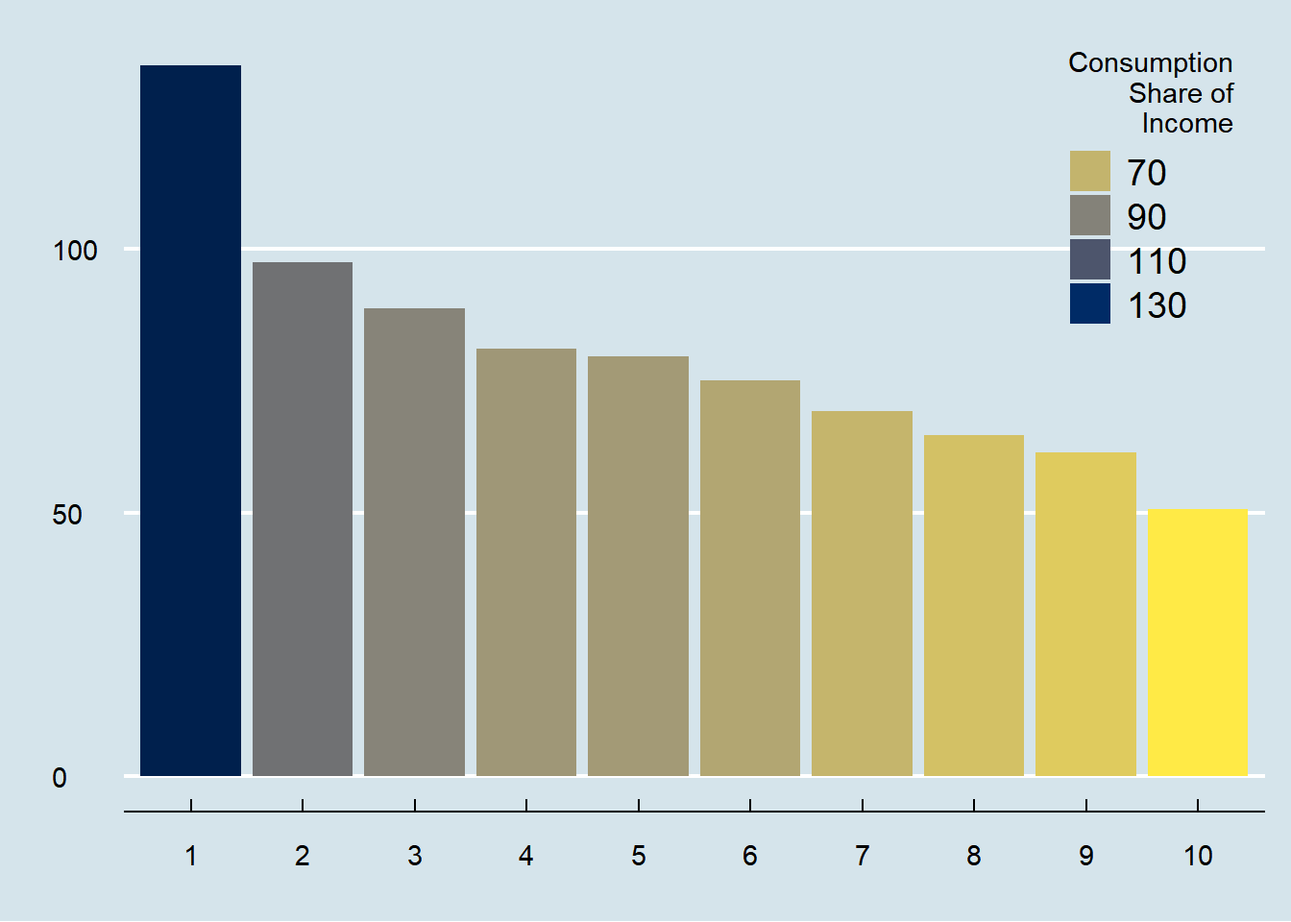
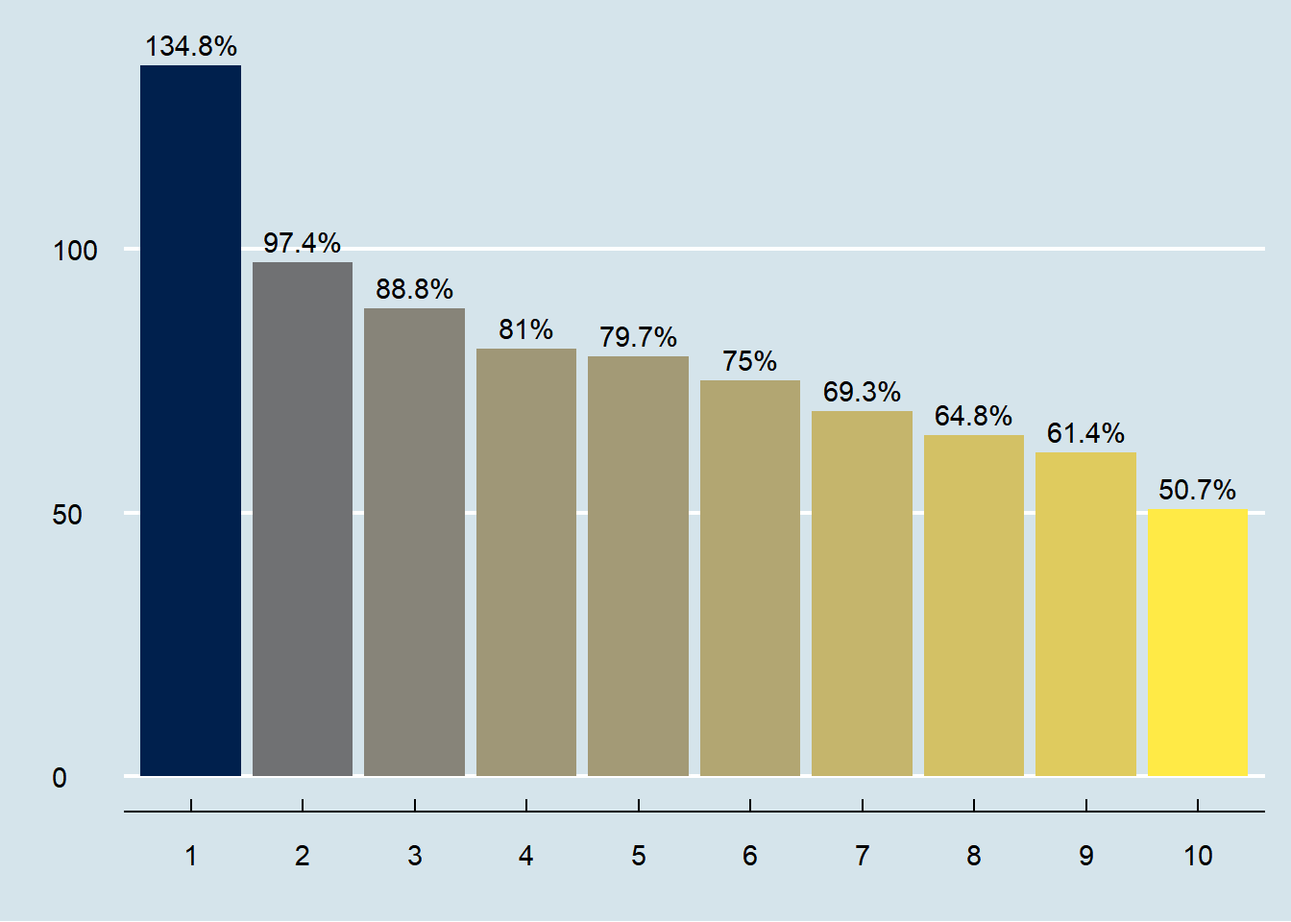
Update

diff --git a/docs/02_data.html b/docs/02_data.html
@@ -244,7 +244,7 @@ div.csl-indent {
   <li><a href="#data-structure" id="toc-data-structure" class="nav-link" data-scroll-target="#data-structure">Data Structure</a></li>
   <li><a href="#pequiv" id="toc-pequiv" class="nav-link" data-scroll-target="#pequiv">PEQUIV</a></li>
   <li><a href="#hgen" id="toc-hgen" class="nav-link" data-scroll-target="#hgen">HGEN</a></li>
-  <li><a href="#individual-panel" id="toc-individual-panel" class="nav-link" data-scroll-target="#individual-panel">individual panel</a></li>
+  <li><a href="#individual-panel" id="toc-individual-panel" class="nav-link" data-scroll-target="#individual-panel">Individual panel</a></li>
   <li><a href="#hconsum" id="toc-hconsum" class="nav-link" data-scroll-target="#hconsum">HCONSUM</a></li>
   <li><a href="#estimating-the-distribution-of-power-costs-by-income-decile" id="toc-estimating-the-distribution-of-power-costs-by-income-decile" class="nav-link" data-scroll-target="#estimating-the-distribution-of-power-costs-by-income-decile">Estimating the distribution of power costs by income decile</a></li>
   <li><a href="#mapping-the-income-deciles-of-the-soep-to-the-bundesbank-categories" id="toc-mapping-the-income-deciles-of-the-soep-to-the-bundesbank-categories" class="nav-link" data-scroll-target="#mapping-the-income-deciles-of-the-soep-to-the-bundesbank-categories">Mapping the income deciles of the SOEP to the “Bundesbank” categories</a></li>
@@ -1009,7 +1009,7 @@ Labels:
 </ul>
 </section>
 <section id="individual-panel" class="level3">
-<h3 class="anchored" data-anchor-id="individual-panel">individual panel</h3>
+<h3 class="anchored" data-anchor-id="individual-panel">Individual panel</h3>
 <div class="cell">
 
 </div>
@@ -1614,7 +1614,7 @@ f(x) = ax^{ap-1}\Big[b^{ab} B(p,q)\Big(1 + (\frac{x}{b})^a\Big)^{p+q}\Big]^{-1}
 <div class="cell">
 
 </div>
-<p>In <a href="#tbl-ConsA">Table&nbsp;15</a>, we show a sample of the consumption data for daily expenditures. <a href="#tbl-ConsB">Table&nbsp;16</a> contains a similar exercise for housing costs, <a href="#tbl-ConsC">Table&nbsp;17</a> for financial burdens, and <a href="#tbl-ConsD">Table&nbsp;18</a> for other income uses. All values are in thousand of Euros per year and come from averaging the five different imputations of the SOEP for each consumption category.</p>
+<p>In <a href="#tbl-ConsA">Table&nbsp;15</a>, we show a sample of the consumption data for daily expenditures. <a href="#tbl-ConsB">Table&nbsp;16</a> contains a similar exercise for housing costs, <a href="#tbl-ConsC">Table&nbsp;17</a> for financial burdens, and <a href="#tbl-ConsD">Table&nbsp;18</a> for other income uses. All values are in thousand of Euros per year and come from averaging the five different imputations of the SOEP consumption module across categories.</p>
 <div class="panel-tabset">
 <ul class="nav nav-tabs" role="tablist"><li class="nav-item" role="presentation"><a class="nav-link active" id="tabset-4-1-tab" data-bs-toggle="tab" data-bs-target="#tabset-4-1" role="tab" aria-controls="tabset-4-1" aria-selected="true">Daily Expenditures</a></li><li class="nav-item" role="presentation"><a class="nav-link" id="tabset-4-2-tab" data-bs-toggle="tab" data-bs-target="#tabset-4-2" role="tab" aria-controls="tabset-4-2" aria-selected="false">Housing expenditures</a></li><li class="nav-item" role="presentation"><a class="nav-link" id="tabset-4-3-tab" data-bs-toggle="tab" data-bs-target="#tabset-4-3" role="tab" aria-controls="tabset-4-3" aria-selected="false">Financial expenditures</a></li><li class="nav-item" role="presentation"><a class="nav-link" id="tabset-4-4-tab" data-bs-toggle="tab" data-bs-target="#tabset-4-4" role="tab" aria-controls="tabset-4-4" aria-selected="false">Other expenditures</a></li></ul>
 <div class="tab-content">
@@ -1953,9 +1953,9 @@ f(x) = ax^{ap-1}\Big[b^{ab} B(p,q)\Big(1 + (\frac{x}{b})^a\Big)^{p+q}\Big]^{-1}
 </div>
 </div>
 </div>
-<p>In <a href="#fig-ShareConsumption">Figure&nbsp;2</a> we look at the difference in consumption values and composition across the SOEP income deciles. For this, we aggregate all consumption items into eight categories; Daily expenditures, health, financial, transport, heating, power, housing, and other. First, there are clear differences in the amount of money used for consumption across income groups. For instance, in the highest and lowest deciles of the income distribution households spend 14,900 and 4,460 Euros per year, respectively.</p>
+<p>In <a href="#fig-ShareConsumption">Figure&nbsp;2</a>, we look at the difference in consumption values and composition across the SOEP income deciles. For this, we aggregate all consumption items into eight categories; Daily expenditures, health, financial, transport, heating, power, housing, and others. There are apparent differences in the amount of money used for consumption across income groups. For instance, in the highest and lowest deciles of the income distribution, households spend 14,900 and 4,460 Euros per year, respectively. <a href="#fig-ShareConsumption">Figure&nbsp;2</a> portrays a clearer picture of the composition of these expenditures across income groups. While the share of financial and health costs grows with income, heating and power expenditures decrease. <strong>?@fig-HeatCon</strong> clearly shows these trends with a heat map of consumption category by income decile. The expenditure share of housing, daily expenses, and health remains relatively stable; financial, transport and health costs increase with income; and heating-power expenses decrease. In <a href="#fig-IncToCon">Figure&nbsp;4</a>, we plot the ratio of average income to consumption by income decile. As expected, the consumption income ratio drops as we become more well-off. In the lowest income decile, families spend, on average, 34% more than their average income, meaning that they either live from debt or receive additional and unreported income from other sources. Once we move to the second income decile, the ratio reaches parity and implies that persons in this decile earn as much as they spend. Finally, in <a href="#fig-IncToConHeat">Figure&nbsp;5</a>, we plot the heat map of consumption income ratios across different categories.</p>
 <div class="panel-tabset">
-<ul class="nav nav-tabs" role="tablist"><li class="nav-item" role="presentation"><a class="nav-link active" id="tabset-5-1-tab" data-bs-toggle="tab" data-bs-target="#tabset-5-1" role="tab" aria-controls="tabset-5-1" aria-selected="true">Yearly Consumption</a></li><li class="nav-item" role="presentation"><a class="nav-link" id="tabset-5-2-tab" data-bs-toggle="tab" data-bs-target="#tabset-5-2" role="tab" aria-controls="tabset-5-2" aria-selected="false">Consumption Share</a></li><li class="nav-item" role="presentation"><a class="nav-link" id="tabset-5-3-tab" data-bs-toggle="tab" data-bs-target="#tabset-5-3" role="tab" aria-controls="tabset-5-3" aria-selected="false">Consumption Share of income</a></li></ul>
+<ul class="nav nav-tabs" role="tablist"><li class="nav-item" role="presentation"><a class="nav-link active" id="tabset-5-1-tab" data-bs-toggle="tab" data-bs-target="#tabset-5-1" role="tab" aria-controls="tabset-5-1" aria-selected="true">Consumption</a></li><li class="nav-item" role="presentation"><a class="nav-link" id="tabset-5-2-tab" data-bs-toggle="tab" data-bs-target="#tabset-5-2" role="tab" aria-controls="tabset-5-2" aria-selected="false">Con. Share</a></li><li class="nav-item" role="presentation"><a class="nav-link" id="tabset-5-3-tab" data-bs-toggle="tab" data-bs-target="#tabset-5-3" role="tab" aria-controls="tabset-5-3" aria-selected="false">Con. Matrix</a></li><li class="nav-item" role="presentation"><a class="nav-link" id="tabset-5-4-tab" data-bs-toggle="tab" data-bs-target="#tabset-5-4" role="tab" aria-controls="tabset-5-4" aria-selected="false">Con/Income</a></li><li class="nav-item" role="presentation"><a class="nav-link" id="tabset-5-5-tab" data-bs-toggle="tab" data-bs-target="#tabset-5-5" role="tab" aria-controls="tabset-5-5" aria-selected="false">Con/Income matrix</a></li></ul>
 <div class="tab-content">
 <div id="tabset-5-1" class="tab-pane active" role="tabpanel" aria-labelledby="tabset-5-1-tab">
 <div class="cell fig-cap-location-top">
@@ -2028,24 +2028,89 @@ f(x) = ax^{ap-1}\Big[b^{ab} B(p,q)\Big(1 + (\frac{x}{b})^a\Big)^{p+q}\Big]^{-1}
 <span id="cb23-2"><a href="#cb23-2" aria-hidden="true" tabindex="-1"></a>data <span class="ot">=</span> <span class="fu">mutate</span>(data, <span class="at">decile =</span> <span class="fu">ntile</span>(income, <span class="dv">10</span>)) <span class="sc">|&gt;</span> </span>
 <span id="cb23-3"><a href="#cb23-3" aria-hidden="true" tabindex="-1"></a>  <span class="fu">mutate</span>(<span class="at">decile =</span> <span class="fu">as_factor</span>(decile))</span>
 <span id="cb23-4"><a href="#cb23-4" aria-hidden="true" tabindex="-1"></a><span class="co"># Create the data for the plot</span></span>
-<span id="cb23-5"><a href="#cb23-5" aria-hidden="true" tabindex="-1"></a>plot <span class="ot">=</span> <span class="fu">select</span>(data, total, income, decile) <span class="sc">|&gt;</span> </span>
-<span id="cb23-6"><a href="#cb23-6" aria-hidden="true" tabindex="-1"></a>  <span class="fu">group_by</span>(decile) <span class="sc">|&gt;</span> </span>
-<span id="cb23-7"><a href="#cb23-7" aria-hidden="true" tabindex="-1"></a>  <span class="fu">summarise</span>(<span class="at">consumption =</span> <span class="fu">mean</span>(total), <span class="at">income =</span> <span class="fu">mean</span>(income)) <span class="sc">|&gt;</span> </span>
-<span id="cb23-8"><a href="#cb23-8" aria-hidden="true" tabindex="-1"></a>  <span class="fu">mutate</span>(<span class="at">share =</span> (consumption<span class="sc">/</span>income)<span class="sc">*</span><span class="dv">100</span>)</span>
-<span id="cb23-9"><a href="#cb23-9" aria-hidden="true" tabindex="-1"></a><span class="co"># Plot total expenditures by concept</span></span>
-<span id="cb23-10"><a href="#cb23-10" aria-hidden="true" tabindex="-1"></a><span class="fu">ggplot</span>(plot) <span class="sc">+</span></span>
-<span id="cb23-11"><a href="#cb23-11" aria-hidden="true" tabindex="-1"></a>  <span class="fu">geom_bar</span>(<span class="fu">aes</span>(<span class="at">x =</span> decile, <span class="at">y =</span> share, <span class="at">fill =</span> share), <span class="at">stat =</span> <span class="st">"identity"</span>) <span class="sc">+</span></span>
-<span id="cb23-12"><a href="#cb23-12" aria-hidden="true" tabindex="-1"></a>  <span class="fu">scale_fill_viridis</span>(<span class="at">discrete =</span> F, <span class="at">option =</span> <span class="st">"E"</span>, <span class="at">direction =</span> <span class="sc">-</span><span class="dv">1</span>) <span class="sc">+</span></span>
-<span id="cb23-13"><a href="#cb23-13" aria-hidden="true" tabindex="-1"></a>  <span class="fu">theme_economist</span>() <span class="sc">%+replace%</span> </span>
-<span id="cb23-14"><a href="#cb23-14" aria-hidden="true" tabindex="-1"></a>  <span class="fu">theme</span>(<span class="at">legend.position =</span> <span class="fu">c</span>(<span class="fl">0.9</span>, <span class="fl">0.8</span>), <span class="at">legend.title =</span> <span class="fu">element_text</span>(<span class="at">hjust =</span> <span class="dv">1</span>)) <span class="sc">+</span></span>
-<span id="cb23-15"><a href="#cb23-15" aria-hidden="true" tabindex="-1"></a>  <span class="fu">labs</span>(<span class="at">x =</span> <span class="st">""</span>, <span class="at">y =</span> <span class="st">""</span>) <span class="sc">+</span> </span>
-<span id="cb23-16"><a href="#cb23-16" aria-hidden="true" tabindex="-1"></a>  <span class="fu">guides</span>(<span class="at">fill =</span> <span class="fu">guide_legend</span>(<span class="fu">str_wrap</span>(<span class="st">"Consumption Share of Income"</span>, <span class="at">width =</span> <span class="dv">10</span>)))</span></code><button title="Copy to Clipboard" class="code-copy-button"><i class="bi"></i></button></pre></div>
+<span id="cb23-5"><a href="#cb23-5" aria-hidden="true" tabindex="-1"></a>plot <span class="ot">=</span> <span class="fu">select</span>(data, <span class="sc">-</span>total, <span class="sc">-</span>income, <span class="sc">-</span>owner) <span class="sc">%&gt;%</span> </span>
+<span id="cb23-6"><a href="#cb23-6" aria-hidden="true" tabindex="-1"></a>  <span class="fu">gather</span>(var, value, <span class="sc">-</span>hid, <span class="sc">-</span>decile) <span class="sc">%&gt;%</span> </span>
+<span id="cb23-7"><a href="#cb23-7" aria-hidden="true" tabindex="-1"></a>  <span class="fu">left_join</span>(., codebook, <span class="at">by =</span> <span class="fu">c</span>(<span class="st">"var"</span> <span class="ot">=</span> <span class="st">"concept"</span>)) <span class="sc">|&gt;</span> <span class="fu">group_by</span>(decile, group) <span class="sc">|&gt;</span> </span>
+<span id="cb23-8"><a href="#cb23-8" aria-hidden="true" tabindex="-1"></a>  <span class="fu">summarise</span>(<span class="at">value =</span> <span class="fu">mean</span>(value)) <span class="sc">|&gt;</span> <span class="fu">group_by</span>(decile) <span class="sc">|&gt;</span> </span>
+<span id="cb23-9"><a href="#cb23-9" aria-hidden="true" tabindex="-1"></a>  <span class="fu">mutate</span>(<span class="at">share =</span> (value<span class="sc">/</span><span class="fu">sum</span>(value))<span class="sc">*</span><span class="dv">100</span>)  <span class="sc">|&gt;</span> </span>
+<span id="cb23-10"><a href="#cb23-10" aria-hidden="true" tabindex="-1"></a>  <span class="fu">mutate</span>(<span class="at">group =</span> <span class="fu">fct_reorder</span>(<span class="fu">factor</span>(group), share, <span class="at">.desc =</span> F))</span>
+<span id="cb23-11"><a href="#cb23-11" aria-hidden="true" tabindex="-1"></a><span class="co"># Plot total expenditures by concept</span></span>
+<span id="cb23-12"><a href="#cb23-12" aria-hidden="true" tabindex="-1"></a><span class="fu">ggplot</span>(plot) <span class="sc">+</span></span>
+<span id="cb23-13"><a href="#cb23-13" aria-hidden="true" tabindex="-1"></a>  <span class="fu">geom_tile</span>(<span class="fu">aes</span>(<span class="at">x =</span> decile, <span class="at">y =</span> group, <span class="at">fill =</span> share), <span class="at">alpha =</span> <span class="fl">0.75</span>) <span class="sc">+</span></span>
+<span id="cb23-14"><a href="#cb23-14" aria-hidden="true" tabindex="-1"></a>  <span class="fu">geom_text</span>(<span class="fu">aes</span>(<span class="at">x =</span> decile, <span class="at">y =</span> group, <span class="at">label =</span> <span class="fu">paste0</span>(<span class="fu">round</span>(share, <span class="dv">1</span>), <span class="st">"%"</span>))) <span class="sc">+</span></span>
+<span id="cb23-15"><a href="#cb23-15" aria-hidden="true" tabindex="-1"></a>  <span class="fu">scale_fill_viridis</span>(<span class="at">discrete =</span> F, <span class="at">begin =</span> <span class="dv">0</span>, <span class="at">end =</span> <span class="fl">0.6</span>, <span class="at">option =</span> <span class="st">"D"</span>) <span class="sc">+</span></span>
+<span id="cb23-16"><a href="#cb23-16" aria-hidden="true" tabindex="-1"></a>  <span class="fu">theme_economist</span>() <span class="sc">%+replace%</span> <span class="fu">theme</span>(<span class="at">legend.title =</span> <span class="fu">element_blank</span>()) <span class="sc">+</span></span>
+<span id="cb23-17"><a href="#cb23-17" aria-hidden="true" tabindex="-1"></a>  <span class="fu">labs</span>(<span class="at">x =</span> <span class="st">""</span>, <span class="at">y =</span> <span class="st">""</span>) <span class="sc">+</span> <span class="fu">guides</span>(<span class="at">fill =</span> F)</span></code><button title="Copy to Clipboard" class="code-copy-button"><i class="bi"></i></button></pre></div>
+</details>
+<div class="cell-output-display">
+<div id="fig-HeatConInc" class="quarto-figure quarto-figure-center anchored">
+<figure class="figure">
+<p><img src="02_data_files/figure-html/fig-HeatConInc-1.png" class="img-fluid figure-img" width="672"></p>
+<p></p><figcaption class="figure-caption">Figure 3: Share of total consumption across categories</figcaption><p></p>
+</figure>
+</div>
+</div>
+</div>
+</div>
+<div id="tabset-5-4" class="tab-pane" role="tabpanel" aria-labelledby="tabset-5-4-tab">
+<div class="cell fig-cap-location-top">
+<details>
+<summary>Show the Code</summary>
+<div class="sourceCode cell-code" id="cb24"><pre class="sourceCode r code-with-copy"><code class="sourceCode r"><span id="cb24-1"><a href="#cb24-1" aria-hidden="true" tabindex="-1"></a><span class="co"># Divide into income deciles </span></span>
+<span id="cb24-2"><a href="#cb24-2" aria-hidden="true" tabindex="-1"></a>data <span class="ot">=</span> <span class="fu">mutate</span>(data, <span class="at">decile =</span> <span class="fu">ntile</span>(income, <span class="dv">10</span>)) <span class="sc">|&gt;</span> </span>
+<span id="cb24-3"><a href="#cb24-3" aria-hidden="true" tabindex="-1"></a>  <span class="fu">mutate</span>(<span class="at">decile =</span> <span class="fu">as_factor</span>(decile))</span>
+<span id="cb24-4"><a href="#cb24-4" aria-hidden="true" tabindex="-1"></a><span class="co"># Create the data for the plot</span></span>
+<span id="cb24-5"><a href="#cb24-5" aria-hidden="true" tabindex="-1"></a>plot <span class="ot">=</span> <span class="fu">select</span>(data, total, income, decile) <span class="sc">|&gt;</span> </span>
+<span id="cb24-6"><a href="#cb24-6" aria-hidden="true" tabindex="-1"></a>  <span class="fu">group_by</span>(decile) <span class="sc">|&gt;</span> </span>
+<span id="cb24-7"><a href="#cb24-7" aria-hidden="true" tabindex="-1"></a>  <span class="fu">summarise</span>(<span class="at">consumption =</span> <span class="fu">mean</span>(total), <span class="at">income =</span> <span class="fu">mean</span>(income)) <span class="sc">|&gt;</span> </span>
+<span id="cb24-8"><a href="#cb24-8" aria-hidden="true" tabindex="-1"></a>  <span class="fu">mutate</span>(<span class="at">share =</span> (consumption<span class="sc">/</span>income)<span class="sc">*</span><span class="dv">100</span>)</span>
+<span id="cb24-9"><a href="#cb24-9" aria-hidden="true" tabindex="-1"></a><span class="co"># Plot total expenditures by concept</span></span>
+<span id="cb24-10"><a href="#cb24-10" aria-hidden="true" tabindex="-1"></a><span class="fu">ggplot</span>(plot) <span class="sc">+</span></span>
+<span id="cb24-11"><a href="#cb24-11" aria-hidden="true" tabindex="-1"></a>  <span class="fu">geom_bar</span>(<span class="fu">aes</span>(<span class="at">x =</span> decile, <span class="at">y =</span> share, <span class="at">fill =</span> share), <span class="at">stat =</span> <span class="st">"identity"</span>) <span class="sc">+</span></span>
+<span id="cb24-12"><a href="#cb24-12" aria-hidden="true" tabindex="-1"></a>  <span class="fu">geom_text</span>(<span class="fu">aes</span>(<span class="at">x =</span> decile, <span class="at">y =</span> share, <span class="at">label =</span> <span class="fu">paste0</span>(<span class="fu">round</span>(share,<span class="dv">1</span>), <span class="st">"%"</span>)), <span class="at">vjust =</span> <span class="sc">-</span><span class="fl">0.5</span>) <span class="sc">+</span></span>
+<span id="cb24-13"><a href="#cb24-13" aria-hidden="true" tabindex="-1"></a>  <span class="fu">scale_fill_viridis</span>(<span class="at">discrete =</span> F, <span class="at">option =</span> <span class="st">"E"</span>, <span class="at">direction =</span> <span class="sc">-</span><span class="dv">1</span>) <span class="sc">+</span></span>
+<span id="cb24-14"><a href="#cb24-14" aria-hidden="true" tabindex="-1"></a>  <span class="fu">theme_economist</span>() <span class="sc">+</span> <span class="fu">guides</span>(<span class="at">fill =</span> F) <span class="sc">+</span></span>
+<span id="cb24-15"><a href="#cb24-15" aria-hidden="true" tabindex="-1"></a>  <span class="fu">labs</span>(<span class="at">x =</span> <span class="st">""</span>, <span class="at">y =</span> <span class="st">""</span>)  </span></code><button title="Copy to Clipboard" class="code-copy-button"><i class="bi"></i></button></pre></div>
 </details>
 <div class="cell-output-display">
 <div id="fig-IncToCon" class="quarto-figure quarto-figure-center anchored">
 <figure class="figure">
 <p><img src="02_data_files/figure-html/fig-IncToCon-1.png" class="img-fluid figure-img" width="672"></p>
-<p></p><figcaption class="figure-caption">Figure 3: Consumption share of income (SOEP 2010)</figcaption><p></p>
+<p></p><figcaption class="figure-caption">Figure 4: Consumption share of income (SOEP 2010)</figcaption><p></p>
+</figure>
+</div>
+</div>
+</div>
+</div>
+<div id="tabset-5-5" class="tab-pane" role="tabpanel" aria-labelledby="tabset-5-5-tab">
+<div class="cell fig-cap-location-top">
+<details>
+<summary>Show the Code</summary>
+<div class="sourceCode cell-code" id="cb25"><pre class="sourceCode r code-with-copy"><code class="sourceCode r"><span id="cb25-1"><a href="#cb25-1" aria-hidden="true" tabindex="-1"></a><span class="co"># Divide into income deciles </span></span>
+<span id="cb25-2"><a href="#cb25-2" aria-hidden="true" tabindex="-1"></a>data <span class="ot">=</span> <span class="fu">mutate</span>(data, <span class="at">decile =</span> <span class="fu">ntile</span>(income, <span class="dv">10</span>)) <span class="sc">|&gt;</span> </span>
+<span id="cb25-3"><a href="#cb25-3" aria-hidden="true" tabindex="-1"></a>  <span class="fu">mutate</span>(<span class="at">decile =</span> <span class="fu">as_factor</span>(decile))</span>
+<span id="cb25-4"><a href="#cb25-4" aria-hidden="true" tabindex="-1"></a><span class="co"># Create the data for the plot</span></span>
+<span id="cb25-5"><a href="#cb25-5" aria-hidden="true" tabindex="-1"></a>plot <span class="ot">=</span> <span class="fu">select</span>(data, <span class="sc">-</span>total, <span class="sc">-</span>owner) <span class="sc">%&gt;%</span> </span>
+<span id="cb25-6"><a href="#cb25-6" aria-hidden="true" tabindex="-1"></a>  <span class="fu">gather</span>(var, value, <span class="sc">-</span>hid, <span class="sc">-</span>decile, <span class="sc">-</span>income) <span class="sc">%&gt;%</span> </span>
+<span id="cb25-7"><a href="#cb25-7" aria-hidden="true" tabindex="-1"></a>  <span class="fu">left_join</span>(., codebook, <span class="at">by =</span> <span class="fu">c</span>(<span class="st">"var"</span> <span class="ot">=</span> <span class="st">"concept"</span>)) <span class="sc">|&gt;</span> <span class="fu">group_by</span>(decile, group, var) <span class="sc">|&gt;</span> </span>
+<span id="cb25-8"><a href="#cb25-8" aria-hidden="true" tabindex="-1"></a>  <span class="fu">summarise</span>(<span class="at">value =</span> <span class="fu">mean</span>(value, <span class="at">na.rm =</span> T), <span class="at">income =</span> <span class="fu">mean</span>(income, <span class="at">na.rm =</span> T)) <span class="sc">|&gt;</span> </span>
+<span id="cb25-9"><a href="#cb25-9" aria-hidden="true" tabindex="-1"></a>  <span class="fu">group_by</span>(decile, group, income) <span class="sc">|&gt;</span> <span class="fu">summarise</span>(<span class="at">total =</span> <span class="fu">sum</span>(value)) <span class="sc">|&gt;</span> <span class="fu">group_by</span>(decile, group) <span class="sc">|&gt;</span> </span>
+<span id="cb25-10"><a href="#cb25-10" aria-hidden="true" tabindex="-1"></a>  <span class="fu">mutate</span>(<span class="at">share =</span> (total<span class="sc">/</span>income)<span class="sc">*</span><span class="dv">100</span>)  <span class="sc">|&gt;</span> </span>
+<span id="cb25-11"><a href="#cb25-11" aria-hidden="true" tabindex="-1"></a>  <span class="fu">mutate</span>(<span class="at">group =</span> <span class="fu">fct_reorder</span>(<span class="fu">factor</span>(group), total, <span class="at">.desc =</span> T))</span>
+<span id="cb25-12"><a href="#cb25-12" aria-hidden="true" tabindex="-1"></a></span>
+<span id="cb25-13"><a href="#cb25-13" aria-hidden="true" tabindex="-1"></a><span class="co"># Plot total expenditures by concept</span></span>
+<span id="cb25-14"><a href="#cb25-14" aria-hidden="true" tabindex="-1"></a><span class="fu">ggplot</span>(plot) <span class="sc">+</span></span>
+<span id="cb25-15"><a href="#cb25-15" aria-hidden="true" tabindex="-1"></a>  <span class="fu">geom_tile</span>(<span class="fu">aes</span>(<span class="at">x =</span> decile, <span class="at">y =</span> <span class="fu">reorder</span>(group, share), <span class="at">fill =</span> share), <span class="at">alpha =</span> <span class="fl">0.75</span>) <span class="sc">+</span></span>
+<span id="cb25-16"><a href="#cb25-16" aria-hidden="true" tabindex="-1"></a>  <span class="fu">geom_text</span>(<span class="fu">aes</span>(<span class="at">x =</span> decile, <span class="at">y =</span> group, <span class="at">label =</span> <span class="fu">paste0</span>(<span class="fu">round</span>(share, <span class="dv">1</span>), <span class="st">"%"</span>))) <span class="sc">+</span></span>
+<span id="cb25-17"><a href="#cb25-17" aria-hidden="true" tabindex="-1"></a>  <span class="fu">scale_fill_viridis</span>(<span class="at">discrete =</span> F, <span class="at">begin =</span> <span class="dv">0</span>, <span class="at">end =</span> <span class="fl">0.6</span>, <span class="at">option =</span> <span class="st">"D"</span>) <span class="sc">+</span></span>
+<span id="cb25-18"><a href="#cb25-18" aria-hidden="true" tabindex="-1"></a>  <span class="fu">theme_economist</span>() <span class="sc">%+replace%</span> <span class="fu">theme</span>(<span class="at">legend.title =</span> <span class="fu">element_blank</span>()) <span class="sc">+</span></span>
+<span id="cb25-19"><a href="#cb25-19" aria-hidden="true" tabindex="-1"></a>  <span class="fu">labs</span>(<span class="at">x =</span> <span class="st">""</span>, <span class="at">y =</span> <span class="st">""</span>) <span class="sc">+</span> <span class="fu">guides</span>(<span class="at">fill =</span> F)</span></code><button title="Copy to Clipboard" class="code-copy-button"><i class="bi"></i></button></pre></div>
+</details>
+<div class="cell-output-display">
+<div id="fig-IncToConHeat" class="quarto-figure quarto-figure-center anchored">
+<figure class="figure">
+<p><img src="02_data_files/figure-html/fig-IncToConHeat-1.png" class="img-fluid figure-img" width="672"></p>
+<p></p><figcaption class="figure-caption">Figure 5: Consumption share of income across categories</figcaption><p></p>
 </figure>
 </div>
 </div>
@@ -2057,7 +2122,7 @@ f(x) = ax^{ap-1}\Big[b^{ab} B(p,q)\Big(1 + (\frac{x}{b})^a\Big)^{p+q}\Big]^{-1}
 <section id="estimating-the-distribution-of-power-costs-by-income-decile" class="level3">
 <h3 class="anchored" data-anchor-id="estimating-the-distribution-of-power-costs-by-income-decile">Estimating the distribution of power costs by income decile</h3>
 <p>Next, we use the information on income and power cost from the sub-set of renters to look at the relationship between annual power costs and income. For this, we divide the data set into ten different income groups based on the deciles of the income distribution and estimate the average and standard deviation of income and power costs in each decile.</p>
-<p><a href="#tbl-PowerCostDist">Table&nbsp;19</a> contains a sample of the final data. <em>IncomeGroup</em> refers to the income decile. <em>IncAvg</em> is the average yearly income in thousands of Euros. <em>PowerCostAvg</em> is the average yearly power bill in Euros. <em>IncSD</em> is the standard deviation of annual income. And <em>PowerCostSd</em> the analogous for power costs. <a href="#fig-PowerCostsDensity">Figure&nbsp;4</a> contains the density (Log) function of annual Power Costs across different income deciles. As expected, the density is normally distributed with higher mean values for more wealthy households.</p>
+<p><a href="#tbl-PowerCostDist">Table&nbsp;19</a> contains a sample of the final data. <em>IncomeGroup</em> refers to the income decile. <em>IncAvg</em> is the average yearly income in thousands of Euros. <em>PowerCostAvg</em> is the average yearly power bill in Euros. <em>IncSD</em> is the standard deviation of annual income. And <em>PowerCostSd</em> the analogous for power costs. <a href="#fig-PowerCostsDensity">Figure&nbsp;6</a> contains the density (Log) function of annual Power Costs across different income deciles. As expected, the density is normally distributed with higher mean values for more wealthy households.</p>
 <div class="panel-tabset">
 <ul class="nav nav-tabs" role="tablist"><li class="nav-item" role="presentation"><a class="nav-link active" id="tabset-6-1-tab" data-bs-toggle="tab" data-bs-target="#tabset-6-1" role="tab" aria-controls="tabset-6-1" aria-selected="true">Data Set</a></li><li class="nav-item" role="presentation"><a class="nav-link" id="tabset-6-2-tab" data-bs-toggle="tab" data-bs-target="#tabset-6-2" role="tab" aria-controls="tabset-6-2" aria-selected="false">Descriptives</a></li></ul>
 <div class="tab-content">
@@ -2065,13 +2130,13 @@ f(x) = ax^{ap-1}\Big[b^{ab} B(p,q)\Big(1 + (\frac{x}{b})^a\Big)^{p+q}\Big]^{-1}
 <div class="cell tbl-cap-location-top">
 <details>
 <summary>Show the Code</summary>
-<div class="sourceCode cell-code" id="cb24"><pre class="sourceCode r code-with-copy"><code class="sourceCode r"><span id="cb24-1"><a href="#cb24-1" aria-hidden="true" tabindex="-1"></a><span class="co"># Load Data</span></span>
-<span id="cb24-2"><a href="#cb24-2" aria-hidden="true" tabindex="-1"></a>file <span class="ot">=</span> <span class="fu">gsub</span>(<span class="st">"WebsiteABM"</span>, <span class="st">""</span>, <span class="fu">getwd</span>())</span>
-<span id="cb24-3"><a href="#cb24-3" aria-hidden="true" tabindex="-1"></a>data <span class="ot">=</span> <span class="fu">read_rds</span>(<span class="fu">paste0</span>(file, <span class="st">"02_GenData/03_SoepFiles/IncomePowerDeciles.rds"</span>))</span>
-<span id="cb24-4"><a href="#cb24-4" aria-hidden="true" tabindex="-1"></a><span class="co"># Show the table</span></span>
-<span id="cb24-5"><a href="#cb24-5" aria-hidden="true" tabindex="-1"></a><span class="fu">kbl</span>(<span class="fu">ungroup</span>(data) <span class="sc">%&gt;%</span> <span class="fu">head</span>(.)) <span class="sc">%&gt;%</span> </span>
-<span id="cb24-6"><a href="#cb24-6" aria-hidden="true" tabindex="-1"></a>  <span class="fu">kable_classic</span>(<span class="at">full_width =</span> T, <span class="at">html_font =</span> <span class="st">"Cambria"</span>) <span class="sc">%&gt;%</span> </span>
-<span id="cb24-7"><a href="#cb24-7" aria-hidden="true" tabindex="-1"></a>  <span class="fu">kable_styling</span>(<span class="at">bootstrap_option =</span> <span class="fu">c</span>(<span class="st">"hover"</span>))</span></code><button title="Copy to Clipboard" class="code-copy-button"><i class="bi"></i></button></pre></div>
+<div class="sourceCode cell-code" id="cb26"><pre class="sourceCode r code-with-copy"><code class="sourceCode r"><span id="cb26-1"><a href="#cb26-1" aria-hidden="true" tabindex="-1"></a><span class="co"># Load Data</span></span>
+<span id="cb26-2"><a href="#cb26-2" aria-hidden="true" tabindex="-1"></a>file <span class="ot">=</span> <span class="fu">gsub</span>(<span class="st">"WebsiteABM"</span>, <span class="st">""</span>, <span class="fu">getwd</span>())</span>
+<span id="cb26-3"><a href="#cb26-3" aria-hidden="true" tabindex="-1"></a>data <span class="ot">=</span> <span class="fu">read_rds</span>(<span class="fu">paste0</span>(file, <span class="st">"02_GenData/03_SoepFiles/IncomePowerDeciles.rds"</span>))</span>
+<span id="cb26-4"><a href="#cb26-4" aria-hidden="true" tabindex="-1"></a><span class="co"># Show the table</span></span>
+<span id="cb26-5"><a href="#cb26-5" aria-hidden="true" tabindex="-1"></a><span class="fu">kbl</span>(<span class="fu">ungroup</span>(data) <span class="sc">%&gt;%</span> <span class="fu">head</span>(.)) <span class="sc">%&gt;%</span> </span>
+<span id="cb26-6"><a href="#cb26-6" aria-hidden="true" tabindex="-1"></a>  <span class="fu">kable_classic</span>(<span class="at">full_width =</span> T, <span class="at">html_font =</span> <span class="st">"Cambria"</span>) <span class="sc">%&gt;%</span> </span>
+<span id="cb26-7"><a href="#cb26-7" aria-hidden="true" tabindex="-1"></a>  <span class="fu">kable_styling</span>(<span class="at">bootstrap_option =</span> <span class="fu">c</span>(<span class="st">"hover"</span>))</span></code><button title="Copy to Clipboard" class="code-copy-button"><i class="bi"></i></button></pre></div>
 </details>
 <div class="cell-output-display">
 <div id="tbl-PowerCostDist" class="anchored">
@@ -2140,7 +2205,7 @@ f(x) = ax^{ap-1}\Big[b^{ab} B(p,q)\Big(1 + (\frac{x}{b})^a\Big)^{p+q}\Big]^{-1}
 <div id="fig-PowerCostsDensity" class="quarto-figure quarto-figure-center anchored">
 <figure class="figure">
 <p><img src="99_figures/PowerCostsDensity.png" class="img-fluid figure-img"></p>
-<p></p><figcaption class="figure-caption">Figure 4: Density function of Power Costs across Income Deciles</figcaption><p></p>
+<p></p><figcaption class="figure-caption">Figure 6: Density function of Power Costs across Income Deciles</figcaption><p></p>
 </figure>
 </div>
 </div>
@@ -2154,13 +2219,13 @@ f(x) = ax^{ap-1}\Big[b^{ab} B(p,q)\Big(1 + (\frac{x}{b})^a\Big)^{p+q}\Big]^{-1}
 <div class="cell tbl-cap-location-top">
 <details>
 <summary>Show the Code</summary>
-<div class="sourceCode cell-code" id="cb25"><pre class="sourceCode r code-with-copy"><code class="sourceCode r"><span id="cb25-1"><a href="#cb25-1" aria-hidden="true" tabindex="-1"></a><span class="co"># Load Data</span></span>
-<span id="cb25-2"><a href="#cb25-2" aria-hidden="true" tabindex="-1"></a>file <span class="ot">=</span> <span class="fu">gsub</span>(<span class="st">"WebsiteABM"</span>, <span class="st">""</span>, <span class="fu">getwd</span>())</span>
-<span id="cb25-3"><a href="#cb25-3" aria-hidden="true" tabindex="-1"></a>data <span class="ot">=</span> <span class="fu">read_rds</span>(<span class="fu">paste0</span>(file, <span class="st">"02_GenData/03_SoepFiles/AmtMap.rds"</span>)) <span class="sc">|&gt;</span> <span class="fu">arrange</span>(LowPer, <span class="at">desc =</span> T)</span>
-<span id="cb25-4"><a href="#cb25-4" aria-hidden="true" tabindex="-1"></a><span class="co"># Show the table</span></span>
-<span id="cb25-5"><a href="#cb25-5" aria-hidden="true" tabindex="-1"></a><span class="fu">kbl</span>(<span class="fu">ungroup</span>(data) <span class="sc">%&gt;%</span> <span class="fu">head</span>(.)) <span class="sc">%&gt;%</span> </span>
-<span id="cb25-6"><a href="#cb25-6" aria-hidden="true" tabindex="-1"></a>  <span class="fu">kable_classic</span>(<span class="at">full_width =</span> T, <span class="at">html_font =</span> <span class="st">"Cambria"</span>) <span class="sc">%&gt;%</span> </span>
-<span id="cb25-7"><a href="#cb25-7" aria-hidden="true" tabindex="-1"></a>  <span class="fu">kable_styling</span>(<span class="at">bootstrap_option =</span> <span class="fu">c</span>(<span class="st">"hover"</span>))</span></code><button title="Copy to Clipboard" class="code-copy-button"><i class="bi"></i></button></pre></div>
+<div class="sourceCode cell-code" id="cb27"><pre class="sourceCode r code-with-copy"><code class="sourceCode r"><span id="cb27-1"><a href="#cb27-1" aria-hidden="true" tabindex="-1"></a><span class="co"># Load Data</span></span>
+<span id="cb27-2"><a href="#cb27-2" aria-hidden="true" tabindex="-1"></a>file <span class="ot">=</span> <span class="fu">gsub</span>(<span class="st">"WebsiteABM"</span>, <span class="st">""</span>, <span class="fu">getwd</span>())</span>
+<span id="cb27-3"><a href="#cb27-3" aria-hidden="true" tabindex="-1"></a>data <span class="ot">=</span> <span class="fu">read_rds</span>(<span class="fu">paste0</span>(file, <span class="st">"02_GenData/03_SoepFiles/AmtMap.rds"</span>)) <span class="sc">|&gt;</span> <span class="fu">arrange</span>(LowPer, <span class="at">desc =</span> T)</span>
+<span id="cb27-4"><a href="#cb27-4" aria-hidden="true" tabindex="-1"></a><span class="co"># Show the table</span></span>
+<span id="cb27-5"><a href="#cb27-5" aria-hidden="true" tabindex="-1"></a><span class="fu">kbl</span>(<span class="fu">ungroup</span>(data) <span class="sc">%&gt;%</span> <span class="fu">head</span>(.)) <span class="sc">%&gt;%</span> </span>
+<span id="cb27-6"><a href="#cb27-6" aria-hidden="true" tabindex="-1"></a>  <span class="fu">kable_classic</span>(<span class="at">full_width =</span> T, <span class="at">html_font =</span> <span class="st">"Cambria"</span>) <span class="sc">%&gt;%</span> </span>
+<span id="cb27-7"><a href="#cb27-7" aria-hidden="true" tabindex="-1"></a>  <span class="fu">kable_styling</span>(<span class="at">bootstrap_option =</span> <span class="fu">c</span>(<span class="st">"hover"</span>))</span></code><button title="Copy to Clipboard" class="code-copy-button"><i class="bi"></i></button></pre></div>
 </details>
 <div class="cell-output-display">
 <div id="tbl-AmtDeciles" class="anchored">
@@ -2234,13 +2299,13 @@ f(x) = ax^{ap-1}\Big[b^{ab} B(p,q)\Big(1 + (\frac{x}{b})^a\Big)^{p+q}\Big]^{-1}
 <div class="cell tbl-cap-location-top">
 <details>
 <summary>Show the Code</summary>
-<div class="sourceCode cell-code" id="cb26"><pre class="sourceCode r code-with-copy"><code class="sourceCode r"><span id="cb26-1"><a href="#cb26-1" aria-hidden="true" tabindex="-1"></a><span class="co"># Load Data</span></span>
-<span id="cb26-2"><a href="#cb26-2" aria-hidden="true" tabindex="-1"></a>file <span class="ot">=</span> <span class="fu">gsub</span>(<span class="st">"WebsiteABM"</span>, <span class="st">""</span>, <span class="fu">getwd</span>())</span>
-<span id="cb26-3"><a href="#cb26-3" aria-hidden="true" tabindex="-1"></a>data <span class="ot">=</span> <span class="fu">read_rds</span>(<span class="fu">paste0</span>(file, <span class="st">"02_GenData/03_SoepFiles/ConsumptionDeciles.rds"</span>))</span>
-<span id="cb26-4"><a href="#cb26-4" aria-hidden="true" tabindex="-1"></a><span class="co"># Show the table</span></span>
-<span id="cb26-5"><a href="#cb26-5" aria-hidden="true" tabindex="-1"></a><span class="fu">kbl</span>(<span class="fu">ungroup</span>(data) <span class="sc">%&gt;%</span> <span class="fu">head</span>(.)) <span class="sc">%&gt;%</span> </span>
-<span id="cb26-6"><a href="#cb26-6" aria-hidden="true" tabindex="-1"></a>  <span class="fu">kable_classic</span>(<span class="at">full_width =</span> T, <span class="at">html_font =</span> <span class="st">"Cambria"</span>) <span class="sc">%&gt;%</span> </span>
-<span id="cb26-7"><a href="#cb26-7" aria-hidden="true" tabindex="-1"></a>  <span class="fu">kable_styling</span>(<span class="at">bootstrap_option =</span> <span class="fu">c</span>(<span class="st">"hover"</span>))</span></code><button title="Copy to Clipboard" class="code-copy-button"><i class="bi"></i></button></pre></div>
+<div class="sourceCode cell-code" id="cb28"><pre class="sourceCode r code-with-copy"><code class="sourceCode r"><span id="cb28-1"><a href="#cb28-1" aria-hidden="true" tabindex="-1"></a><span class="co"># Load Data</span></span>
+<span id="cb28-2"><a href="#cb28-2" aria-hidden="true" tabindex="-1"></a>file <span class="ot">=</span> <span class="fu">gsub</span>(<span class="st">"WebsiteABM"</span>, <span class="st">""</span>, <span class="fu">getwd</span>())</span>
+<span id="cb28-3"><a href="#cb28-3" aria-hidden="true" tabindex="-1"></a>data <span class="ot">=</span> <span class="fu">read_rds</span>(<span class="fu">paste0</span>(file, <span class="st">"02_GenData/03_SoepFiles/ConsumptionDeciles.rds"</span>))</span>
+<span id="cb28-4"><a href="#cb28-4" aria-hidden="true" tabindex="-1"></a><span class="co"># Show the table</span></span>
+<span id="cb28-5"><a href="#cb28-5" aria-hidden="true" tabindex="-1"></a><span class="fu">kbl</span>(<span class="fu">ungroup</span>(data) <span class="sc">%&gt;%</span> <span class="fu">head</span>(.)) <span class="sc">%&gt;%</span> </span>
+<span id="cb28-6"><a href="#cb28-6" aria-hidden="true" tabindex="-1"></a>  <span class="fu">kable_classic</span>(<span class="at">full_width =</span> T, <span class="at">html_font =</span> <span class="st">"Cambria"</span>) <span class="sc">%&gt;%</span> </span>
+<span id="cb28-7"><a href="#cb28-7" aria-hidden="true" tabindex="-1"></a>  <span class="fu">kable_styling</span>(<span class="at">bootstrap_option =</span> <span class="fu">c</span>(<span class="st">"hover"</span>))</span></code><button title="Copy to Clipboard" class="code-copy-button"><i class="bi"></i></button></pre></div>
 </details>
 <div class="cell-output-display">
 <div id="tbl-ConDensity" class="anchored">
@@ -2302,7 +2367,7 @@ f(x) = ax^{ap-1}\Big[b^{ab} B(p,q)\Big(1 + (\frac{x}{b})^a\Big)^{p+q}\Big]^{-1}
 <div id="fig-ConsumptionDensity" class="quarto-figure quarto-figure-center anchored">
 <figure class="figure">
 <p><img src="99_figures/ConsumptionDensity.png" class="img-fluid figure-img"></p>
-<p></p><figcaption class="figure-caption">Figure 5: Density function - propensity to consume across Bundesban income categories</figcaption><p></p>
+<p></p><figcaption class="figure-caption">Figure 7: Density function - propensity to consume across Bundesban income categories</figcaption><p></p>
 </figure>
 </div>
 </div>
